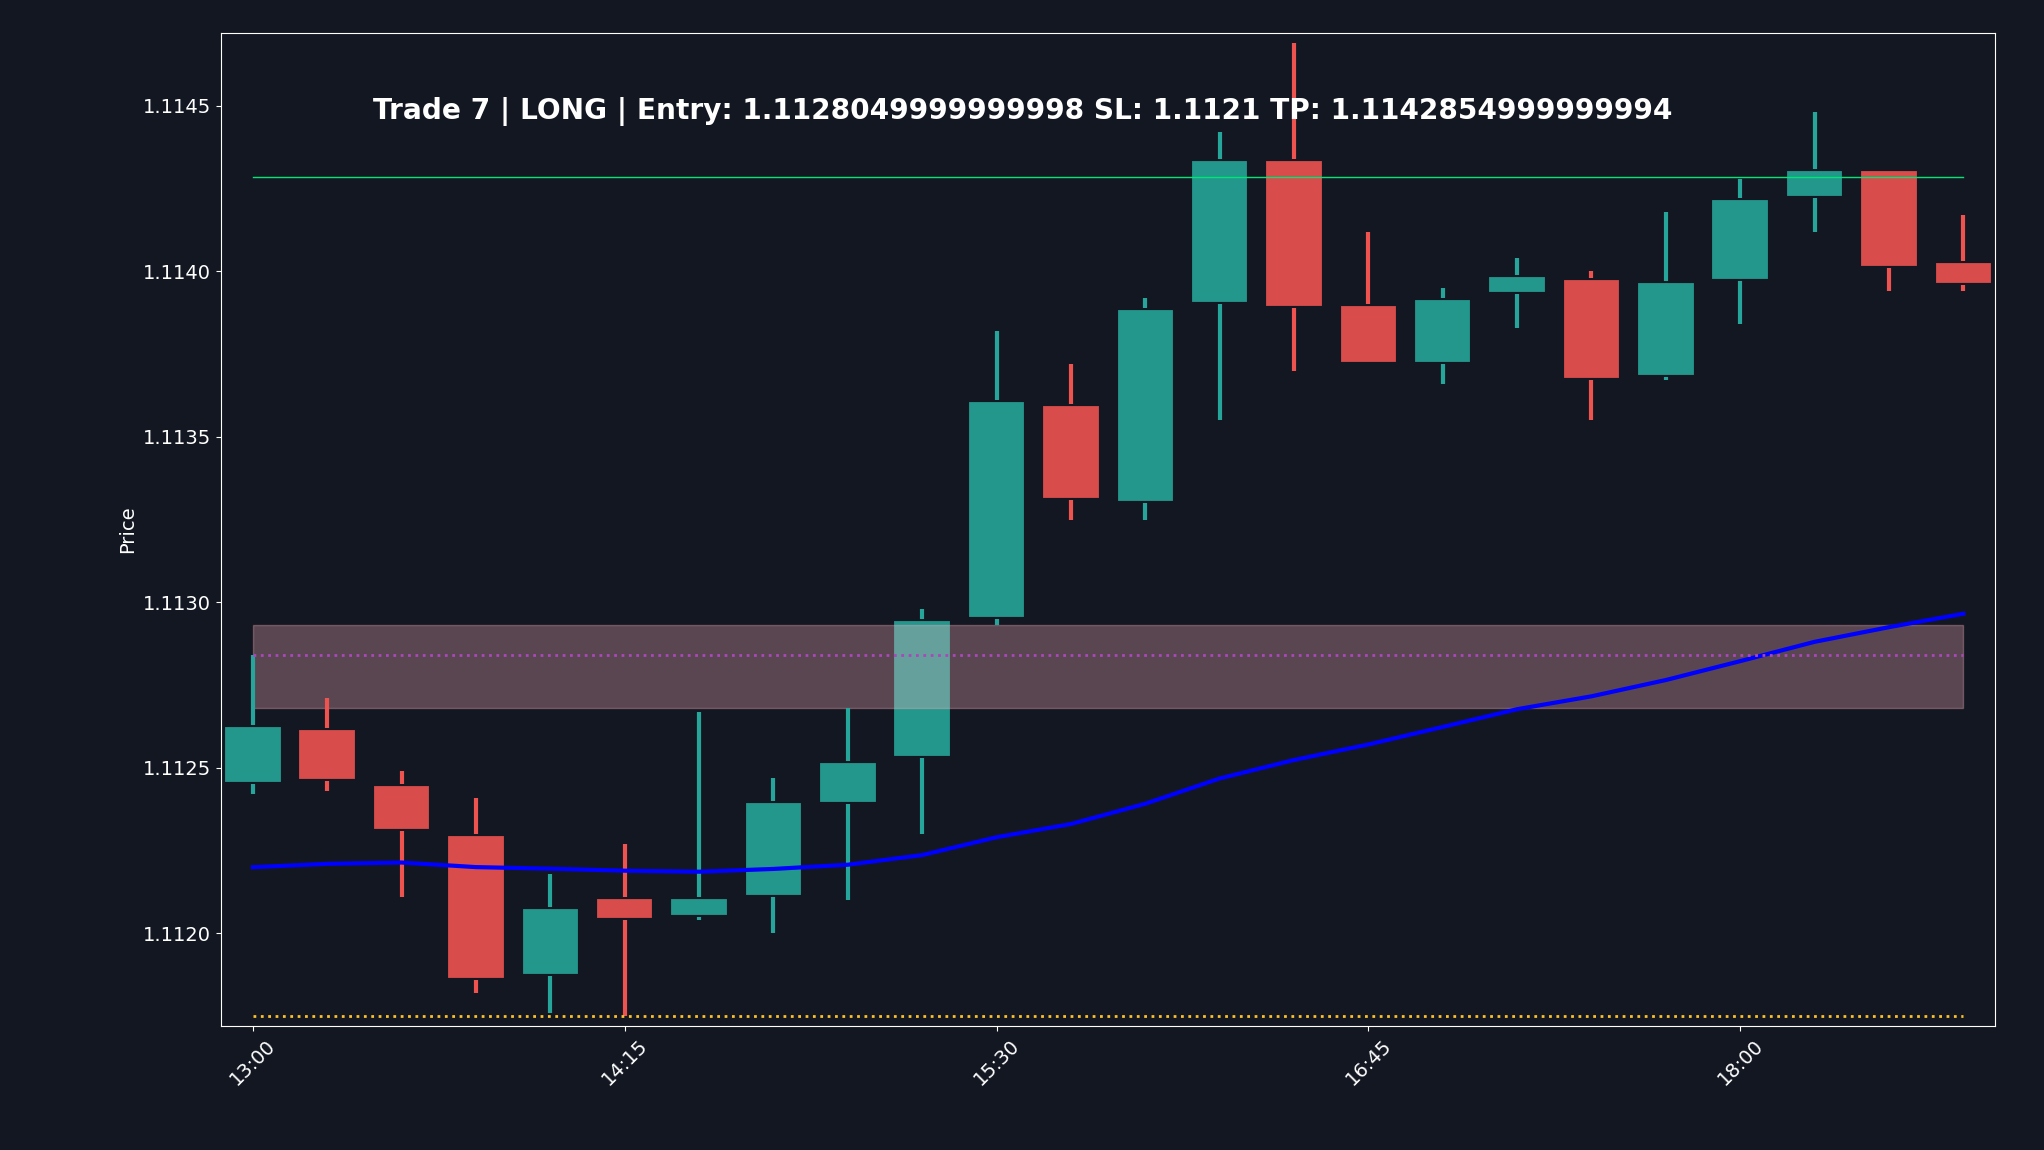
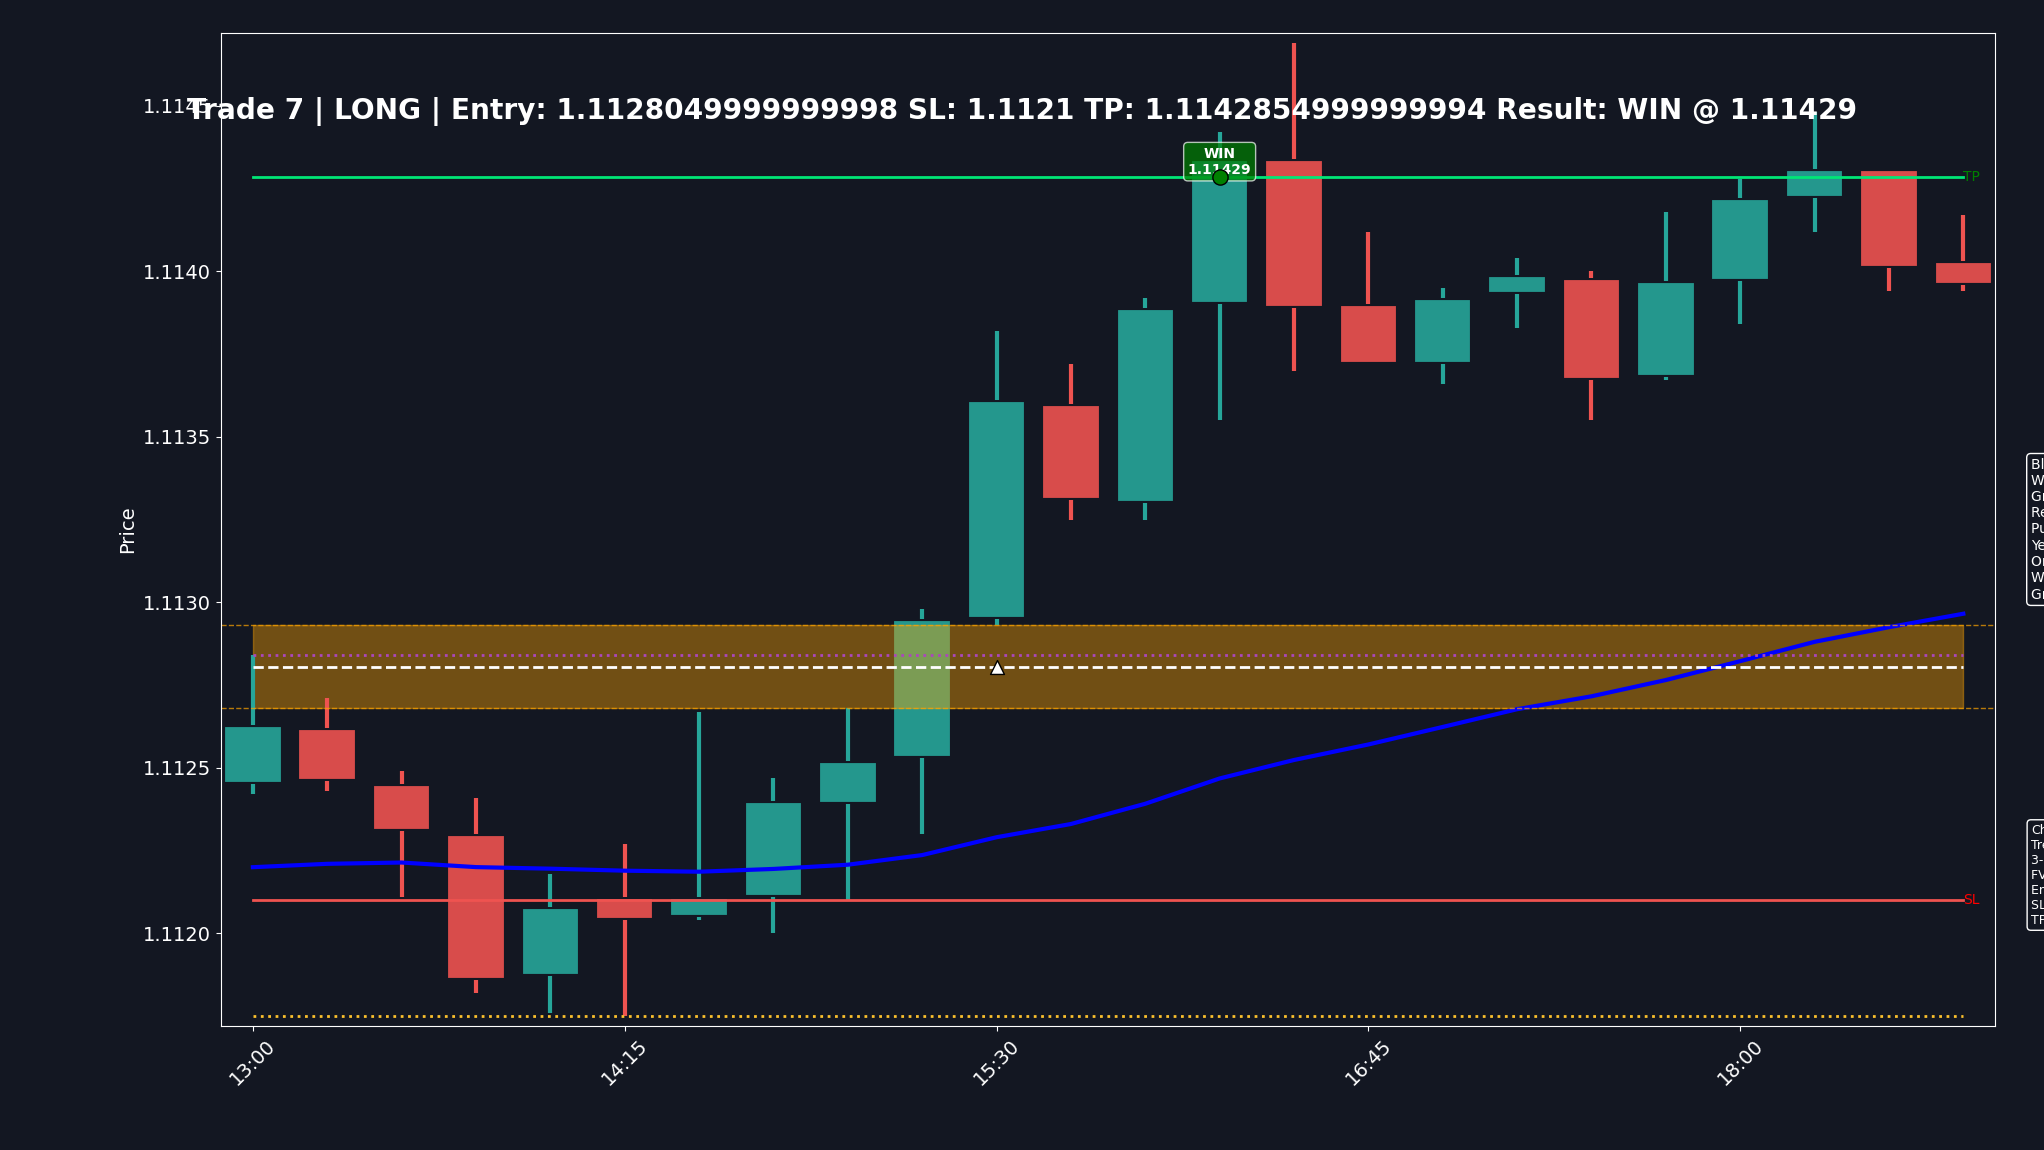
screenshotexecution updated

diff --git a/Chart/trade_chart.py b/Chart/trade_chart.py
@@ -4,7 +4,7 @@ from datetime import datetime, timedelta
 import mplfinance as mpf
 import matplotlib.pyplot as plt
 
-def plot_trade_chart(df, entry_time, exit_time, entry_price, stop_loss, take_profit, fvg_zone, swing_high, swing_low, direction, trade_id):
+def plot_trade_chart(df, entry_time, exit_time, entry_price, stop_loss, take_profit, fvg_zone, swing_high, swing_low, direction, trade_id, exit_price, result):
     """
     Plot a candlestick chart for a specific trade with entry, stop-loss, take-profit, FVG, swing levels, and EMA50.
     Mark entry and SL with arrows.
@@ -36,6 +36,10 @@ def plot_trade_chart(df, entry_time, exit_time, entry_price, stop_loss, take_pro
     if 'EMA50' not in df_trade.columns:
         df_trade['EMA50'] = df_trade['Close'].ewm(span=50, adjust=False).mean()
 
+    # Calculate relative indices
+    entry_rel_idx = entry_idx - start_idx
+    exit_rel_idx = exit_idx - start_idx
+
     # Custom style
     tradingview_style = mpf.make_mpf_style(
         base_mpf_style='nightclouds',
@@ -63,12 +67,14 @@ def plot_trade_chart(df, entry_time, exit_time, entry_price, stop_loss, take_pro
     # Add plots
     ap = [
         mpf.make_addplot(df_trade['EMA50'], color='blue', width=3),
-        mpf.make_addplot([take_profit] * len(df_trade), color="#00e676", linestyle="-", width=1),
+        mpf.make_addplot([entry_price] * len(df_trade), color='white', linestyle='--', width=2),
+        mpf.make_addplot([take_profit] * len(df_trade), color="#00e676", linestyle="-", width=2),
+        mpf.make_addplot([stop_loss] * len(df_trade), color="#ef5350", linestyle="-", width=2),
         mpf.make_addplot([swing_high] * len(df_trade), color="#ab47bc", linestyle=":", width=2),
         mpf.make_addplot([swing_low] * len(df_trade), color="#fbc02d", linestyle=":", width=2),
     ]
 
-    title = f"Trade {trade_id} | {direction} | Entry: {entry_price} SL: {stop_loss} TP: {take_profit}"
+    title = f"Trade {trade_id} | {direction} | Entry: {entry_price} SL: {stop_loss} TP: {take_profit} Result: {result} @ {exit_price:.5f}"
     fig, axlist = mpf.plot(
         df_trade,
         type="candle",
@@ -84,8 +90,57 @@ def plot_trade_chart(df, entry_time, exit_time, entry_price, stop_loss, take_pro
         update_width_config=dict(candle_linewidth=3, candle_width=0.8)
     )
 
-    # Add FVG zone as shaded area
-    axlist[0].fill_between(range(len(df_trade)), fvg_zone[0], fvg_zone[1], color='lightpink', alpha=0.3, label='FVG Zone')
+    # Add FVG zone as shaded area with label
+    axlist[0].fill_between(range(len(df_trade)), fvg_zone[0], fvg_zone[1], color='orange', alpha=0.4, label='FVG Zone')
+    # Add FVG boundaries as lines
+    axlist[0].axhline(y=fvg_zone[0], color='orange', linestyle='--', linewidth=1, alpha=0.7)
+    axlist[0].axhline(y=fvg_zone[1], color='orange', linestyle='--', linewidth=1, alpha=0.7)
+
+    # Add direction marker: white filled triangle
+    marker = '^' if direction == "LONG" else 'v'
+    axlist[0].scatter(entry_rel_idx, entry_price, color='white', marker=marker, s=100, edgecolors='black', zorder=5)
+
+    # Mark trade result on chart at exit
+    color_result = 'green' if result == "WIN" else 'red'
+    axlist[0].scatter(exit_rel_idx, exit_price, color=color_result, marker='o', s=120, edgecolors='black', zorder=5)
+    axlist[0].text(exit_rel_idx, exit_price, f'{result}\n{exit_price:.5f}', color='white', fontsize=10,
+                   ha='center', va='bottom' if result == "WIN" else 'top', weight='bold',
+                   bbox=dict(facecolor=color_result, alpha=0.7, boxstyle='round,pad=0.3'))
+
+    # Add labels for SL and TP
+    axlist[0].text(len(df_trade)-1, take_profit, 'TP', fontsize=10, color='green', ha='left', va='center')
+    axlist[0].text(len(df_trade)-1, stop_loss, 'SL', fontsize=10, color='red', ha='left', va='center')
+
+    # Add legend on the side
+    legend_text = (
+        "Blue: EMA50\n"
+        "White Dashed: Entry Price\n"
+        "Green: Take Profit\n"
+        "Red: Stop Loss\n"
+        "Purple Dotted: Swing High\n"
+        "Yellow Dotted: Swing Low\n"
+        "Orange: FVG Zone\n"
+        "White Triangle: Entry Direction\n"
+        "Green/Red Circle: Trade Result"
+    )
+    axlist[0].text(1.02, 0.5, legend_text, transform=axlist[0].transAxes, fontsize=10, color='white',
+                   verticalalignment='center', bbox=dict(boxstyle="round,pad=0.3", facecolor="#131722", edgecolor='white'))
+
+    # Checklist of trading conditions
+    # Assuming conditions are met since trade was taken, but we can check
+    trend_ok = (direction == "LONG" and df_trade.iloc[entry_rel_idx]['Close'] > df_trade.iloc[entry_rel_idx]['EMA50']) or \
+               (direction == "SHORT" and df_trade.iloc[entry_rel_idx]['Close'] < df_trade.iloc[entry_rel_idx]['EMA50'])
+    # Other conditions are harder to check without full context, assume met
+    checklist = (
+        f"Trend OK: {'Yes' if trend_ok else 'No'}\n"
+        "3-Candle Breakout: Yes\n"
+        "FVG Present: Yes\n"
+        "Entry at FVG Mid: Yes\n"
+        "SL Set: Yes\n"
+        "TP Set: Yes"
+    )
+    axlist[0].text(1.02, 0.1, f"Checklist:\n{checklist}", transform=axlist[0].transAxes, fontsize=9, color='white',
+                   verticalalignment='bottom', bbox=dict(boxstyle="round,pad=0.3", facecolor="#131722", edgecolor='white'))
 
     return fig
 

diff --git a/BPB_FVG_STRATEGY/trade_screenshot.py b/BPB_FVG_STRATEGY/trade_screenshot.py
@@ -6,11 +6,11 @@ import os.path
 sys.path.append(os.path.join(os.path.dirname(__file__), '..'))
 from Chart.trade_chart import plot_trade_chart
 
-def save_trade_screenshot(df, entry_time, exit_time, entry_price, stop_loss, take_profit, fvg_zone, swing_high, swing_low, direction, trade_id):
+def save_trade_screenshot(df, entry_time, exit_time, entry_price, stop_loss, take_profit, fvg_zone, swing_high, swing_low, direction, trade_id, exit_price, result):
     """
     Generate and save a screenshot of the trade chart using matplotlib.
     """
-    fig = plot_trade_chart(df, entry_time, exit_time, entry_price, stop_loss, take_profit, fvg_zone, swing_high, swing_low, direction, trade_id)
+    fig = plot_trade_chart(df, entry_time, exit_time, entry_price, stop_loss, take_profit, fvg_zone, swing_high, swing_low, direction, trade_id, exit_price, result)
 
     # Create screenshots directory if not exists
     os.makedirs('screenshots', exist_ok=True)

diff --git a/BPB_FVG_STRATEGY/BPB_FVG.py b/BPB_FVG_STRATEGY/BPB_FVG.py
@@ -233,10 +233,11 @@ def backtest():
             continue
 
         entry_time, exit_time, result, pip_risk, pip_outcome = sim
+        exit_price = tp if result == "WIN" else sl
 
         # Save trade screenshot
         trade_id = len(results) + 1
-        save_trade_screenshot(df15, entry_time, exit_time, entry, sl, tp, fvg, bo["last_swing_high"], bo["last_swing_low"], trend, trade_id)
+        save_trade_screenshot(df15, entry_time, exit_time, entry, sl, tp, fvg, bo["last_swing_high"], bo["last_swing_low"], trend, trade_id, exit_price, result)
 
         results.append({
             "PAIR TRADED": PAIR,
